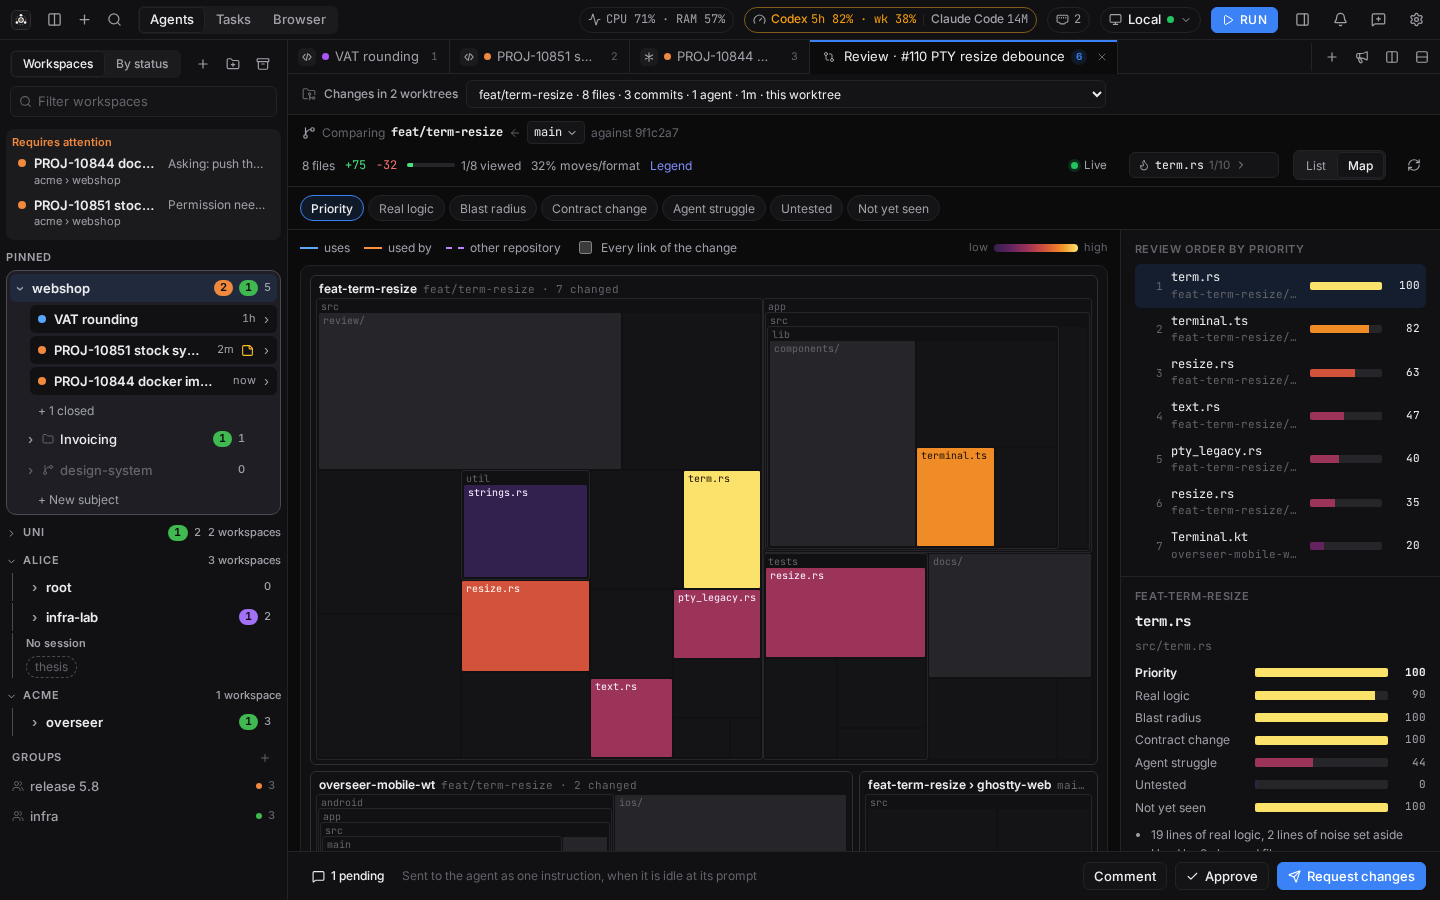
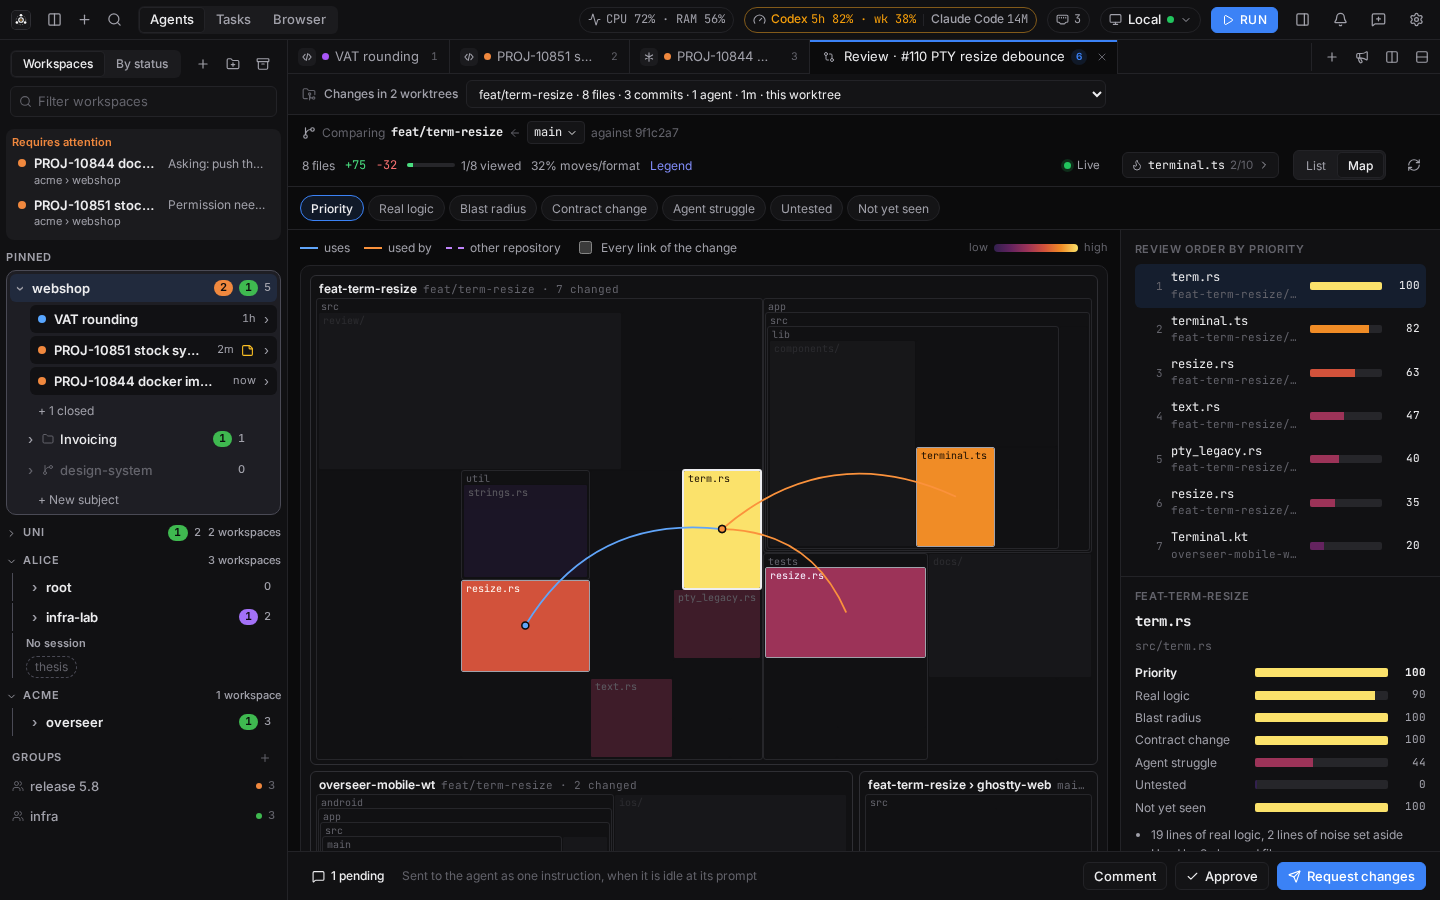
docs: retake the review map screenshot with a file selected and regenerate the tour gif; keep the map selection when the file on screen is not on the map

diff --git a/app/src/lib/components/review/ReviewView.svelte b/app/src/lib/components/review/ReviewView.svelte
@@ -153,7 +153,7 @@
   function setView(v: 'list' | 'map') {
     if (v === store.view) return;
     if (v === 'map') {
-      if (onScreen) hot = onScreen;
+      if (onScreen && maps.scored.some((x) => x.id === onScreen)) hot = onScreen;
       store.setView('map');
       return;
     }
